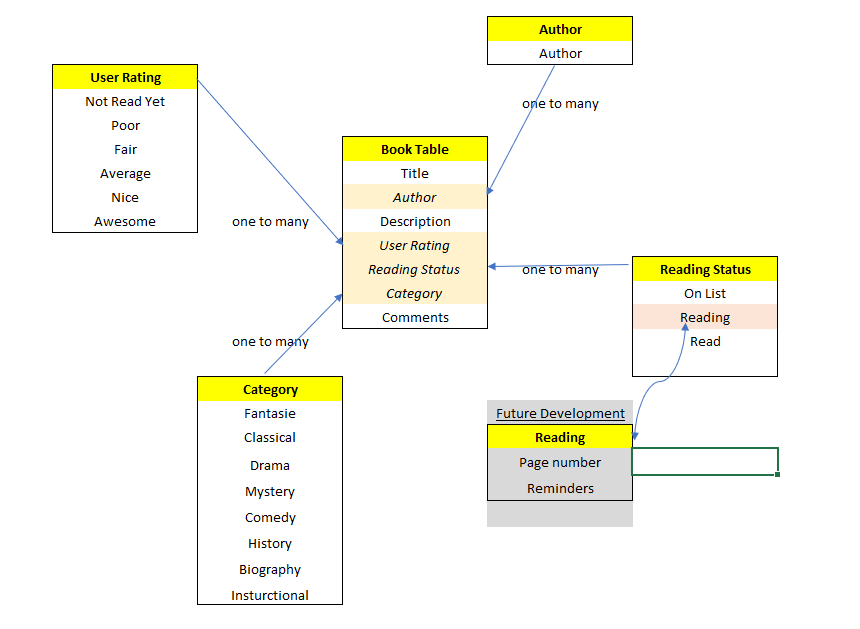
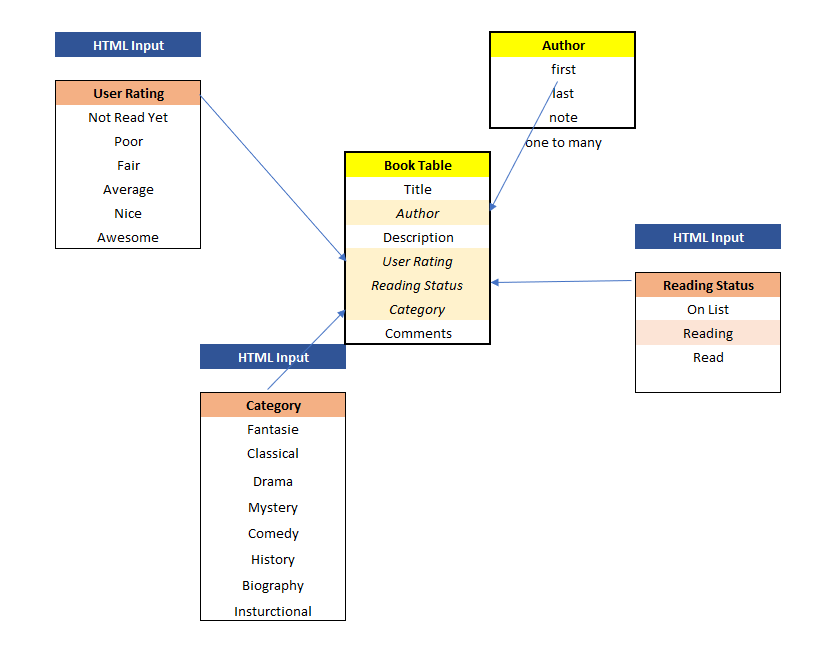
re-design database flow

diff --git a/models/author.js b/models/author.js
@@ -1,7 +1,15 @@
 module.exports = (sequelize, DataTypes) => {
     const author = sequelize.define("Author", {
       // Giving the Author model a name of type STRING
-      name: DataTypes.STRING,
+      first: {
+        allowNull: false,
+        type: DataTypes.STRING
+      },
+      last: {
+        allowNull: false,
+        type: DataTypes.STRING
+      },
+      famous: DataTypes.STRING,
     });
   
     author.associate = (models) => {

diff --git a/models/book.js b/models/book.js
@@ -18,4 +18,5 @@ const book = {
 // };
 
 // Export the database functions for the controller (catsController.js).
+}
 module.exports = book;
